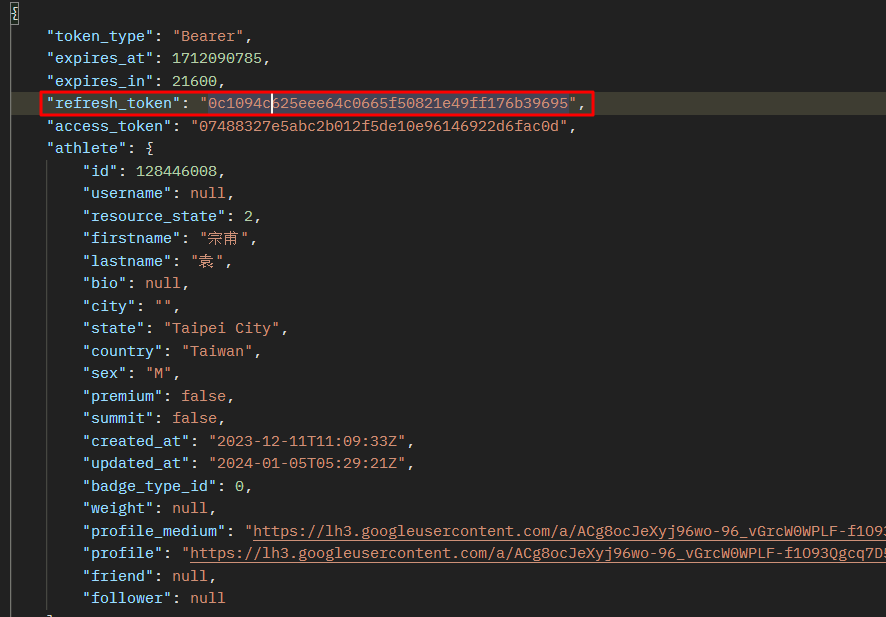
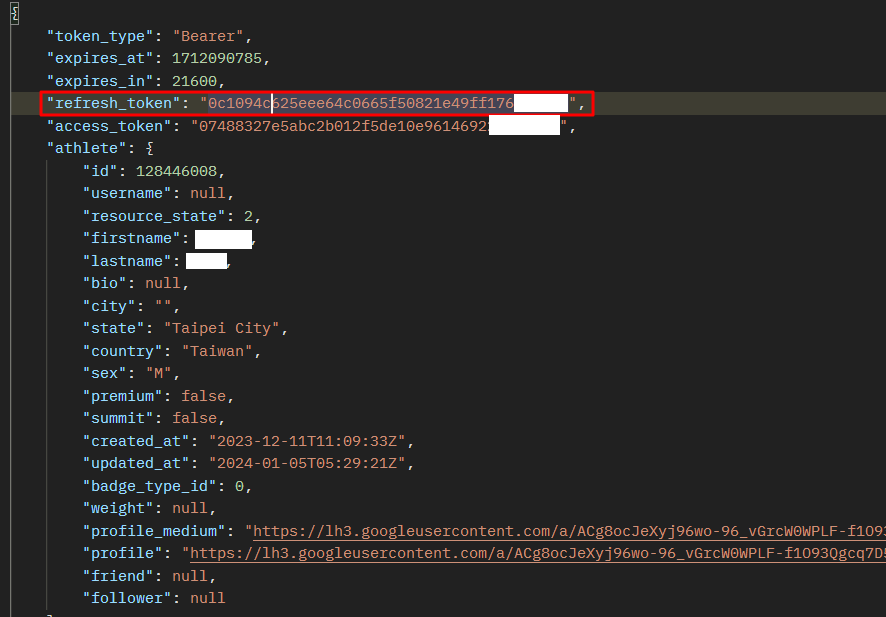
edit 說明

Changed region(s): [[0.5485, 0.154, 0.64, 0.2464], [0.2133, 0.3695, 0.3047, 0.4619]]

diff --git a/run_page/strava_sync.py b/run_page/strava_sync.py
@@ -11,7 +11,7 @@ def run_strava_sync(client_id, client_secret, refresh_token, only_run=False):
     generator.set_strava_config(client_id, client_secret, refresh_token)
     # if you want to refresh data change False to True
     generator.only_run = only_run
-    generator.sync(True)
+    generator.sync(False)
 
     activities_list = generator.load()
     with open(JSON_FILE, "w") as f:

diff --git a/Gusty/README.md b/Gusty/README.md
@@ -26,6 +26,8 @@ yarn develop
 
 ## Strava
 
+<s>原本想直接貼指令的，後來想到指令有token...</s>
+
 ### 申請 API
 
 基本上都跟說明得差不多，申請 API 的範例請參考圖片；圖片是修改畫面，不過初次新增畫面也差不多長這樣。  
@@ -36,69 +38,27 @@ yarn develop
 因作者的電腦 OS 是 ubuntu，所以文件說明是用 curl，但其實只要可以送出請求的工具都可以用，postman、自己寫一個程式...  
 ![refreshToken](./images/refreshToken.png 'refreshToken')
 
-### 同步數據
-
-> 第一次同步 Strava 数据时需要更改在 strava_sync.py 中的第 12 行代码 False 改为 True，运行完成后，再改为 False。
-
-因為這個會產生 data.db，而之後的圖表也是根據這個 db 文件產生出來的，所以之後若是不更新，那資料不是都不會動嗎?  
-我是覺得這邊應該要固定成 True
-
-若數據有取得成功，應該會在 run_page 裡新增一個 data.db
-
 ## Garmin
 
 Garmin 的 APP 可以設定連接 Strava，連結完成後數據也會自動同步，所以我覺得設定 Strava 就好；但我想純用 Garmin 應該也是差不多，照文件操作就可以了。
 
-## Strava to garmin
-
-我試過用 Strava to garmin，但沒有反應，這看來只是單純同步數據，而不會產生出圖表，而且 Garmin 若設定同步，那 Strava 也會有資料，感覺這個很意義不明。
-
 # 產生圖表
 
-當獲取數據成功後，去找**Total Data Analysis**，有 3 個命令，3 個都要輸入，才可以產生自己的圖表。
-
-==以下命令替換參數要注意""不要換掉==
-
-## github.svg
-
-產生類似 github commit 的圖  
-![github](./images/github.png 'github')
+總而言之，複製以下程式碼，然後執行就對了
 
 ```
-python run_page/gen_svg.py --from-db --title "${{ env.TITLE }}" --type github --athlete "${{ env.ATHLETE }}" --special-distance 10 --special-distance2 20 --special-color yellow --special-color2 red --output assets/github.svg --use-localtime --min-distance 0.5
+python run_page/gen_svg.py --from-db --title "Gusty Running" --type github --athlete Gusty --output assets/github.svg --special-distance 5 --special-distance2 10 --special-color yellow --special-color2 red --use-localtime --min-distance 5
+python run_page/gen_svg.py --from-db --title "Over 5km Runs" --type grid --athlete "Gusty" --output assets/grid.svg --special-distance 10 --special-distance2 20 --special-color yellow --special-color2 red --use-localtime --min-distance 5
+python run_page/gen_svg.py --from-db --type circular --use-localtime
 ```
-
-詳細參數設定可以看文件，我個人感覺可以不用動。
-
-- ${{ env.TITLE }}: 換成你的標題，會顯示在圖片左上角，就是 Gusty Running 的位置
-- ${{ env.ATHLETE }}: 換成你想要的名稱，會顯示在圖片左下角，就是 Gusty 的位置
-
-## grid.svg
-
-產生你所有跑過的地形圖  
-![grid](./images/grid.png 'grid')
-
-```
-python3(python) run_page/gen_svg.py --from-db --title "${{ env.TITLE_GRID }}" --type grid --athlete "${{ env.ATHLETE }}"  --output assets/grid.svg --min-distance 5.0 --special-color yellow --special-color2 red --special-distance 20 --special-distance2 40 --use-localtime
-```
-
-- ${{ env.TITLE_GRID }}: 換成你的標題，會顯示在圖片左上角，就是 Over 5km Running 的位置
-- ${{ env.ATHLETE }}: 換成你想要的名稱，會顯示在圖片左下角，就是 Gusty 的位置
-- **--min-distance 5.0**: 這個參數是設定最小公里數，如果設定 10，但卻沒有任何紀錄有跑到 10km，那就不會產生任何圖表，請注意。
-
-## 年度環形圖
-
-這個就沒有甚麼好說的，指令也沒什麼地方可以改。
-![circular](./images/circular.png 'circular')
-
-每一個指令產生的圖表都會放在 assets 裡，裡面會有很多原作者的資料，可以不用刪掉，你的新資料會覆蓋過去，舊的也不會影響到你。
 
 # 部屬
 
-文件說推薦用 Vercel，我個人試過後也覺得 Vercel 好用，github page 不知為啥 Actions 會有問題，但如果要用自動更新(Github Actions)，github page 也要設定，就參考文件的**部署到 GitHub Pages**就好。  
-**Github Cache** 不用動，就預設 false 就好
+文件說推薦用 Vercel，但Vercel實在是不太熟，有時候gh-Page有，但Vercel就是沒有；而且影片也都是教gh-page，所以後來我又改回gh-page了。
 
-另外，GitHub Actions 的 env 好像只能設定單一個而已，看起來不支持多環境。
+若github action有設定成功，那前面獲取數據和產生圖表都會每天自動更新，什麼時候我不知道，應該是半夜，所以上面的指令就是本地測試看看有沒有問題而已。
+
+作者有設定github action就算產生了新的圖表也不會commit上去，可以手動關掉，但我覺得不要commit的比教好。
 
 ## 踩坑問題
 
